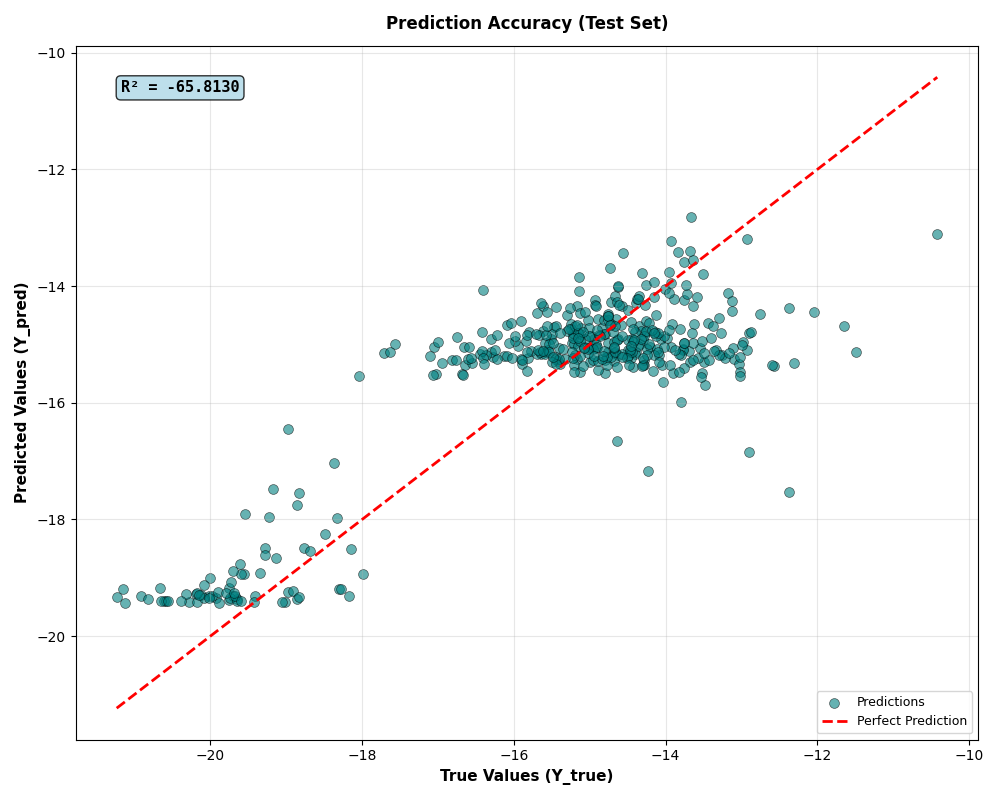
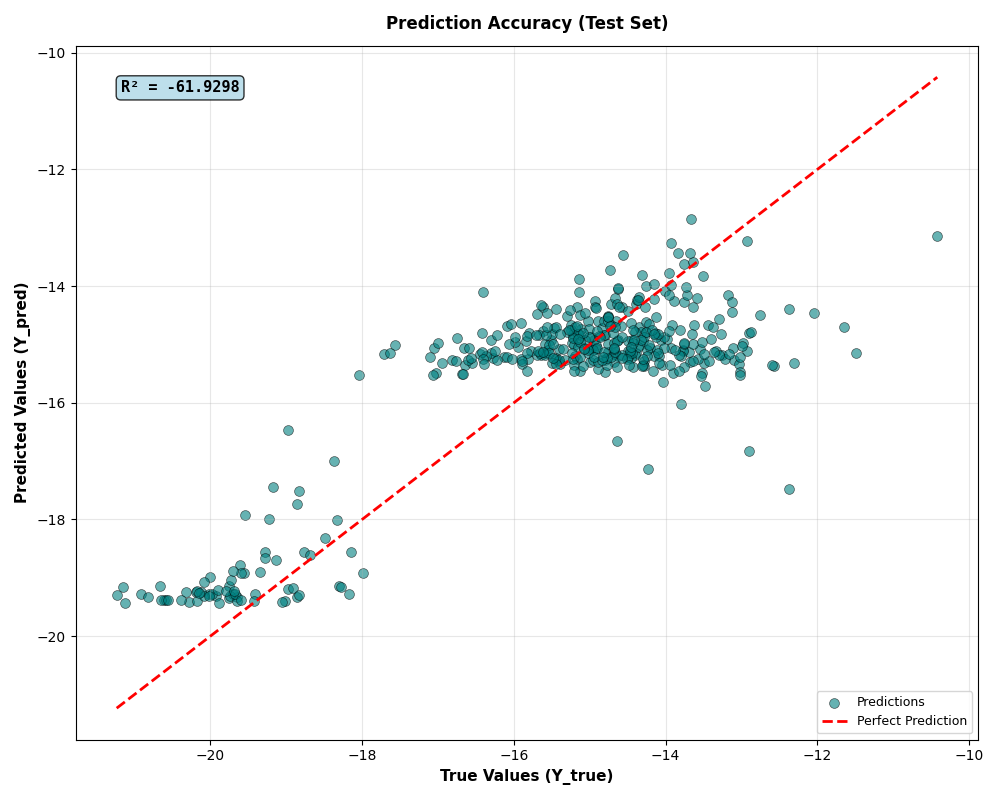
add: updated documentation figures

diff --git a/src/pulsarfitpy/modules/metrics_test.py b/src/pulsarfitpy/modules/metrics_test.py
@@ -21,7 +21,7 @@ query = QueryATNF(params=['P0', 'P1', 'ASSOC'])
 query_table = query.table
 
 # Extract valid data: filter out pulsars with missing P0 or P1 values
-valid_mask = (query_table['P0'].mask) & (query_table['P1'].mask)
+valid_mask = (~query_table['P0'].mask) & (~query_table['P1'].mask)
 P = query_table['P0'][valid_mask].data  # Period in seconds
 Pdot = query_table['P1'][valid_mask].data  # Period derivative (s/s)
 
